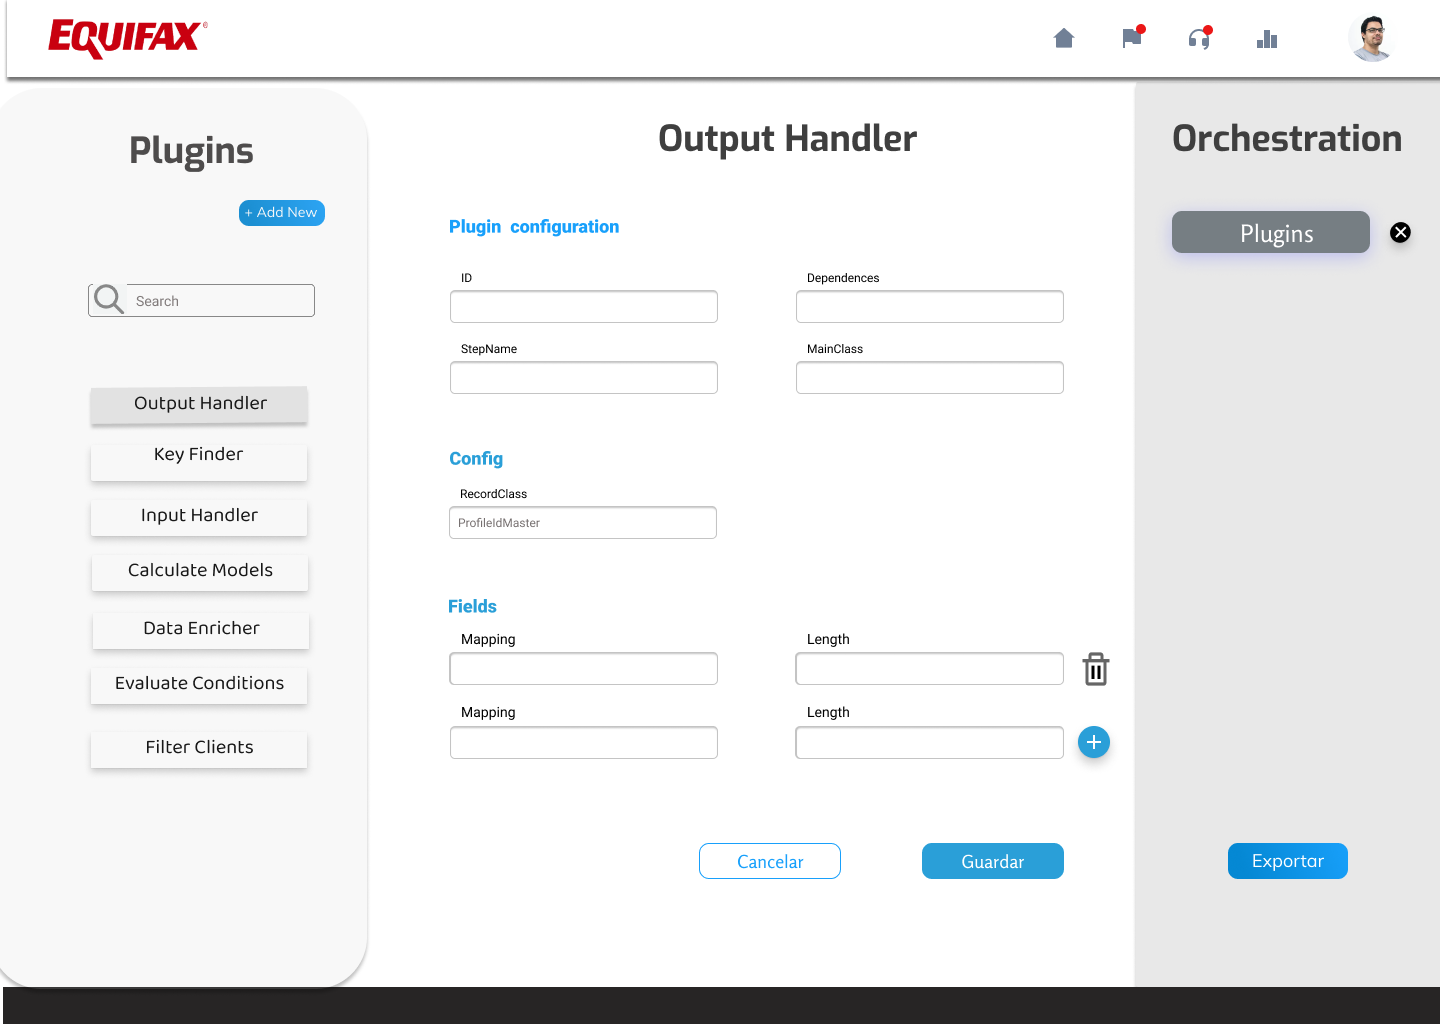
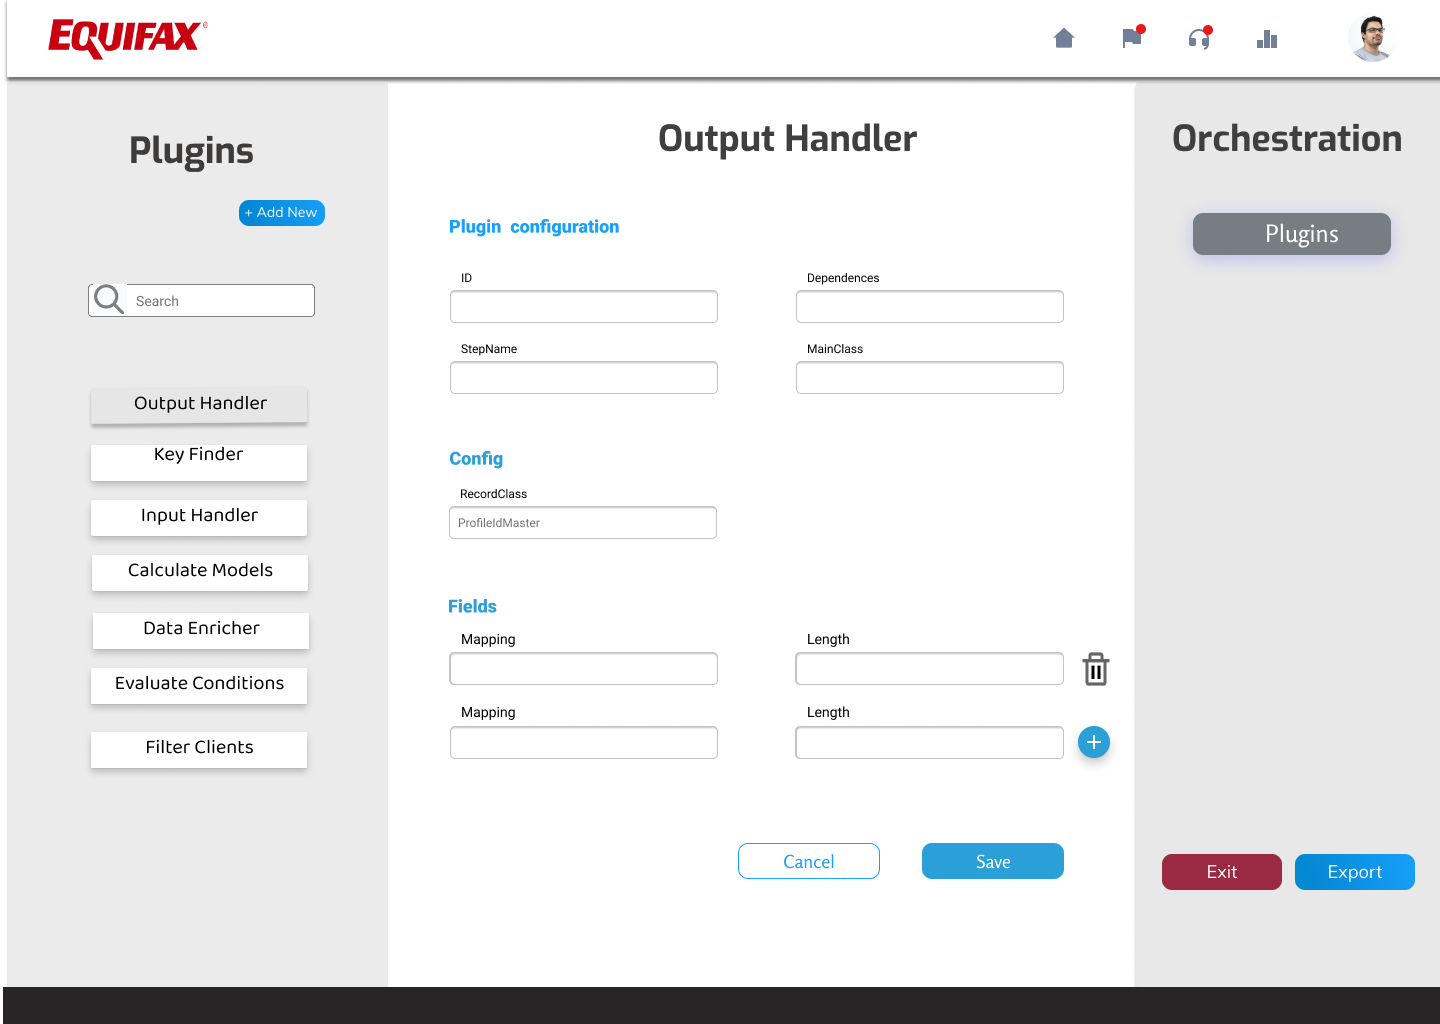
add place holder and new prototype

Changed region(s): [[0.7812, 0.8125, 1.0, 0.875], [0.8125, 0.1875, 1.0, 0.25], [0.5312, 0.8125, 0.5938, 0.8438]]

diff --git a/src/components/Dependencies.jsx b/src/components/Dependencies.jsx
@@ -1,7 +1,8 @@
 import React from 'react';
-import Select from 'react-select';
+import Select , { components, PlaceholderProps } from 'react-select';
 
 const Dependecies = () => {
+  
   const options = [
     { value: 'chocolate', label: 'Chocolate' },
     { value: 'strawberry', label: 'Strawberry' },
@@ -26,7 +27,10 @@ const Dependecies = () => {
   };
   return (
     <div>
-      <Select options={options} styles={style} />
+      <Select
+      placeholder={'Dependencies'} 
+      options={options} 
+      styles={style} />
     </div>
   )
 };

diff --git a/README.md b/README.md
@@ -30,8 +30,7 @@ contiene parámetros y configuración definida por el usuario y sera exportada y
 
 # Prototipos
 
-Es un diseño minimalista, está dividido en tres secciones. La columna principal que contiene los Plugin, la columna del medio que contiene la información a configurar y la última que tiene la visualización de los Plugin creados y listos para exportar.
- 
+Es un diseño minimalista, está dividido en tres secciones. La columna principal que contiene los Plugin, la columna del medio que contiene la información a configurar y la última que tiene la visualización de los Plugin creados y listos para exportar. 
 Diseñado de esta manera ya que sigue un orden secuencial del proceso y es fácil de identificar los requerimientos del usuario para poder acceder de manera fácil a la información
 
 ![Prototipo](./src/assets/Desktop(2).png)
